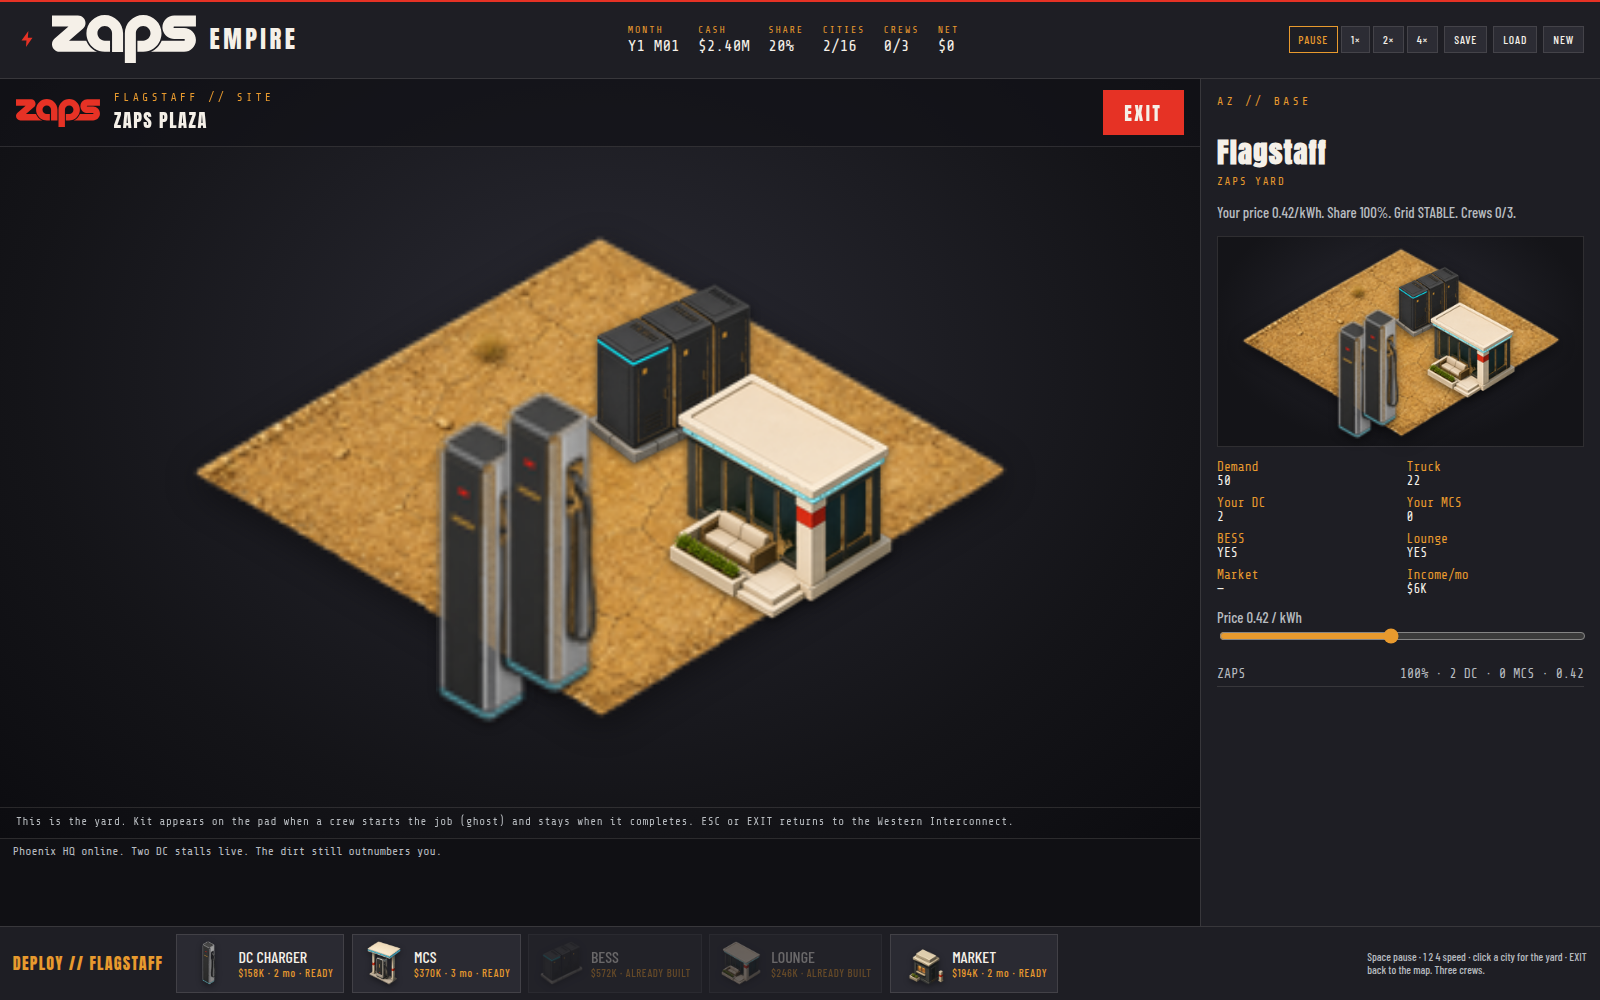
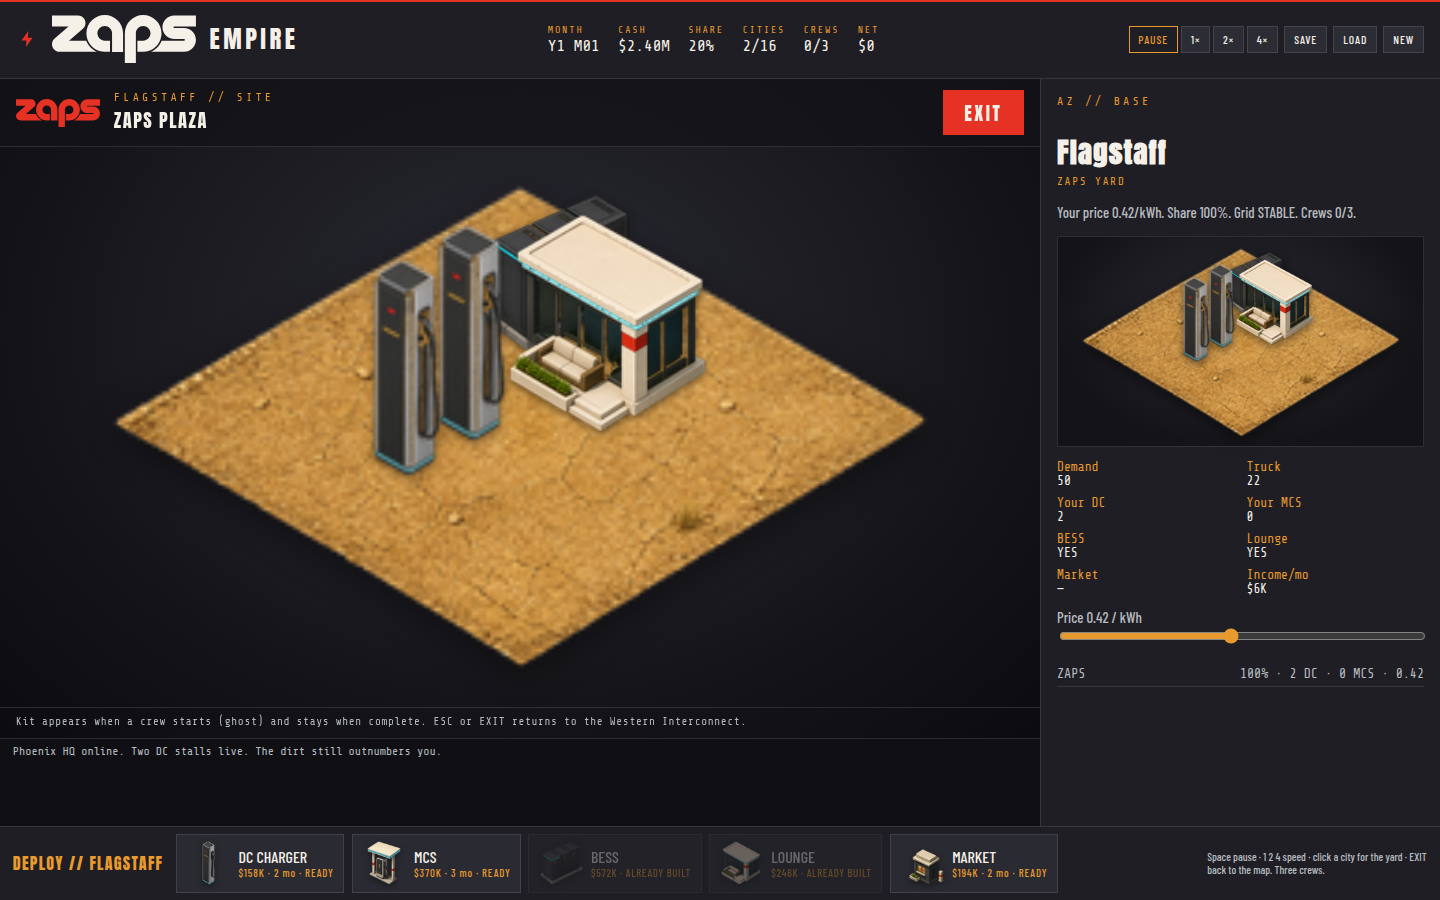
Give Zaps yards a plaza grid so kit sits like a station
Ground-anchor DC / MCS / lounge / BESS / market on a fixed pad
layout: charger street, MCS bay at the west end, lounge east,
BESS bank behind, market front-east. Raising ghosts occupy the
final stall. Overlay and inspector share the same yard art.

diff --git a/game.js b/game.js
@@ -1,5 +1,5 @@
 /* ZAPS EMPIRE — Civ / C&C charging-continent board. Not the night-shift walk. */
-/* empire-build: rts-yard-4 */
+/* empire-build: rts-yard-5 */
 (() => {
   const SAVE_KEY = "zaps-empire-v2";
   const SAVE_LEGACY = "zaps-empire-v1";
@@ -20,7 +20,7 @@
     lot: "#F5F0E8",
   };
   const BOLT = "assets/brand/bolt-red.svg";
-  const SPRITE_V = "rts-yard-4";
+  const SPRITE_V = "rts-yard-5";
   const MAP_SPRITES = {
     flag: `assets/sprites/survey-flag.png?v=${SPRITE_V}`,
     dirt: `assets/sprites/dirt-pad.png?v=${SPRITE_V}`,
@@ -41,7 +41,7 @@
     voltspan: "240 / 204",
     rival: "240 / 167",
   };
-  const KIT_V = "rts-yard-4";
+  const KIT_V = "rts-yard-5";
   const KIT_SPRITES = {
     dc: `assets/sprites/kit-dc.png?v=${KIT_V}`,
     mcs: `assets/sprites/kit-mcs.png?v=${KIT_V}`,
@@ -49,20 +49,59 @@
     lounge: `assets/sprites/kit-lounge.png?v=${KIT_V}`,
     market: `assets/sprites/kit-market.png?v=${KIT_V}`,
   };
+
+  /*
+   * Zaps plaza grid — ground anchors on the 220×131 dirt diamond.
+   * left/top are the sit-down point. CSS translates each sprite by
+   * --ox/--oy so a raising ghost occupies the final stall and does
+   * not jump when the job completes.
+   *
+   * AoE town-center read (gas-station RTS base):
+   *
+   *   BACK
+   *        [BESS bank]
+   *   DC DC DC DC   [LOUNGE]
+   *   [MCS bay]     [MARKET]
+   *   FRONT
+   *
+   * Unique silhouettes: tall DC pedestals on a charger street, wide
+   * MCS stall at the west end, lounge pavilion east, cabinet bank
+   * behind, market kiosk front-east. Plaza slab grows with the compound.
+   */
+  const PAD = {
+    neoX: 7.9,
+    neoY: -7.05,
+    dc0: { x: 36.2, y: 57.6 },
+    dcW: 8.55,
+    mcs0: { x: 21.4, y: 70.4 },
+    mcsW: 23.2,
+    lounge: { x: 60.2, y: 48.8, w: 24.6 },
+    bess: { x: 53.4, y: 32.8, w: 19.0 },
+    market: { x: 69.6, y: 64.8, w: 16.0 },
+  };
+
+  function padSlot(x, y, w, z, ox, oy) {
+    return {
+      left: `${x}%`,
+      top: `${y}%`,
+      width: `${w}%`,
+      z,
+      ox,
+      oy,
+    };
+  }
+
   const KIT_LAYOUT = {
-    dc: [
-      { left: "30%", top: "38%", width: "12%", z: 4 },
-      { left: "38%", top: "32%", width: "12%", z: 5 },
-      { left: "46%", top: "26%", width: "12%", z: 6 },
-      { left: "54%", top: "20%", width: "12%", z: 7 },
-    ],
+    dc: [0, 1, 2, 3].map((i) =>
+      padSlot(PAD.dc0.x + PAD.neoX * i, PAD.dc0.y + PAD.neoY * i, PAD.dcW, 7 - i, 50, 94)
+    ),
     mcs: [
-      { left: "14%", top: "46%", width: "26%", z: 8 },
-      { left: "26%", top: "40%", width: "26%", z: 9 },
+      padSlot(PAD.mcs0.x, PAD.mcs0.y, PAD.mcsW, 9, 58, 94),
+      padSlot(PAD.mcs0.x - PAD.neoX, PAD.mcs0.y - PAD.neoY, PAD.mcsW, 10, 58, 94),
     ],
-    bess: [{ left: "48%", top: "10%", width: "22%", z: 3 }],
-    lounge: [{ left: "58%", top: "28%", width: "28%", z: 6 }],
-    market: [{ left: "60%", top: "50%", width: "24%", z: 10 }],
+    bess: [padSlot(PAD.bess.x, PAD.bess.y, PAD.bess.w, 2, 42, 94)],
+    lounge: [padSlot(PAD.lounge.x, PAD.lounge.y, PAD.lounge.w, 6, 48, 94)],
+    market: [padSlot(PAD.market.x, PAD.market.y, PAD.market.w, 11, 58, 94)],
   };
   const SITE_TYPE_NAME = {
     hq: "PHOENIX HQ",
@@ -1319,6 +1358,26 @@
     return overlayBaseKind(mapSpriteKind(city, meta));
   }
 
+  function kitOccupancy(city) {
+    const site = city.sites[YOU];
+    const raising = {
+      dc: raisingType(city.id, "dc"),
+      mcs: raisingType(city.id, "mcs"),
+      bess: raisingType(city.id, "bess") && site.bess < 1,
+      lounge: raisingType(city.id, "lounge") && site.lounge < 1,
+      market: raisingType(city.id, "market") && site.market < 1,
+    };
+    return {
+      dc: Math.min(4, Math.max(0, site.dc) + (raising.dc ? 1 : 0)),
+      mcs: Math.min(2, Math.max(0, site.mcs) + (raising.mcs ? 1 : 0)),
+      bess: Math.min(1, Math.max(0, site.bess) + (raising.bess ? 1 : 0)),
+      lounge: Math.min(1, Math.max(0, site.lounge) + (raising.lounge ? 1 : 0)),
+      market: Math.min(1, Math.max(0, site.market) + (raising.market ? 1 : 0)),
+      raising,
+      live: site,
+    };
+  }
+
   function kitLayer(type, live, raising) {
     const slots = KIT_LAYOUT[type] || [];
     const src = KIT_SPRITES[type];
@@ -1328,19 +1387,20 @@
     for (let i = 0; i < n; i += 1) {
       const slot = slots[i];
       const ghost = raising && i >= live;
-      html += `<img class="site-kit kit-${type}${ghost ? " raising" : ""}" src="${src}" alt="" draggable="false" data-kit="${type}" data-slot="${i}" data-state="${ghost ? "raising" : "live"}" style="left:${slot.left};top:${slot.top};width:${slot.width};z-index:${slot.z}">`;
+      html += `<img class="site-kit kit-${type}${ghost ? " raising" : ""}" src="${src}" alt="" draggable="false" data-kit="${type}" data-slot="${i}" data-state="${ghost ? "raising" : "live"}" style="left:${slot.left};top:${slot.top};width:${slot.width};z-index:${slot.z};--ox:${slot.ox}%;--oy:${slot.oy}%">`;
     }
     return html;
   }
 
   function kitLayersHtml(city) {
-    const site = city.sites[YOU];
+    const occ = kitOccupancy(city);
+    const site = occ.live;
     return (
-      kitLayer("bess", site.bess, raisingType(city.id, "bess") && site.bess < 1) +
-      kitLayer("lounge", site.lounge, raisingType(city.id, "lounge") && site.lounge < 1) +
-      kitLayer("dc", site.dc, raisingType(city.id, "dc")) +
-      kitLayer("mcs", site.mcs, raisingType(city.id, "mcs")) +
-      kitLayer("market", site.market, raisingType(city.id, "market") && site.market < 1)
+      kitLayer("bess", site.bess, occ.raising.bess) +
+      kitLayer("lounge", site.lounge, occ.raising.lounge) +
+      kitLayer("dc", site.dc, occ.raising.dc) +
+      kitLayer("mcs", site.mcs, occ.raising.mcs) +
+      kitLayer("market", site.market, occ.raising.market)
     );
   }
 
@@ -1376,6 +1436,7 @@
     const site = city.sites[YOU];
     stack.style.aspectRatio = SPRITE_ASPECT[baseKind] || "256 / 177";
     stack.dataset.kind = baseKind;
+    stack.dataset.layout = playerYard(city) ? "plaza" : baseKind;
     stack.dataset.dc = String(site.dc);
     stack.dataset.mcs = String(site.mcs);
     stack.dataset.bess = String(site.bess);

diff --git a/index.html b/index.html
@@ -15,8 +15,8 @@
       href="https://fonts.googleapis.com/css2?family=Anton&family=Barlow+Condensed:wght@500;600;700&family=Share+Tech+Mono&display=swap"
       rel="stylesheet"
     />
-    <meta name="empire-build" content="rts-yard-4" />
-    <link rel="stylesheet" href="styles.css?v=rts-yard-4" />
+    <meta name="empire-build" content="rts-yard-5" />
+    <link rel="stylesheet" href="styles.css?v=rts-yard-5" />
   </head>
   <body>
     <section id="title-screen" class="screen" data-screen="title">
@@ -193,6 +193,6 @@
       <div class="modal-card" id="modal-card"></div>
     </div>
 
-    <script src="game.js?v=rts-yard-4"></script>
+    <script src="game.js?v=rts-yard-5"></script>
   </body>
 </html>

diff --git a/styles.css b/styles.css
@@ -1,4 +1,4 @@
-/* empire-build: rts-yard-4 */
+/* empire-build: rts-yard-5 */
 :root {
   --red: #e63225;
   --charcoal: #1e1e24;
@@ -546,6 +546,7 @@ button {
   transform: translate(-50%, -50%);
   width: min(88%, 820px);
   aspect-ratio: 256 / 200;
+  overflow: visible;
 }
 
 .site-base {
@@ -565,6 +566,7 @@ button {
   object-fit: contain;
   pointer-events: none;
   filter: drop-shadow(0 3px 4px rgba(0, 0, 0, 0.5));
+  transform: translate(calc(-1 * var(--ox, 50%)), calc(-1 * var(--oy, 94%)));
 }
 
 .site-kit.raising {
@@ -676,6 +678,7 @@ button {
   width: min(100%, 320px);
   margin: 0 auto;
   aspect-ratio: 220 / 131;
+  overflow: visible;
 }
 
 .insp-yard .site-base {
